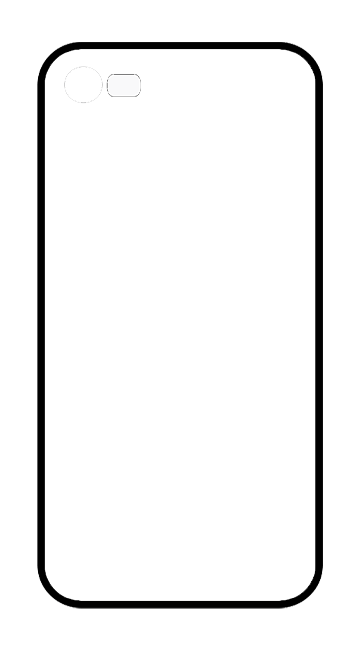
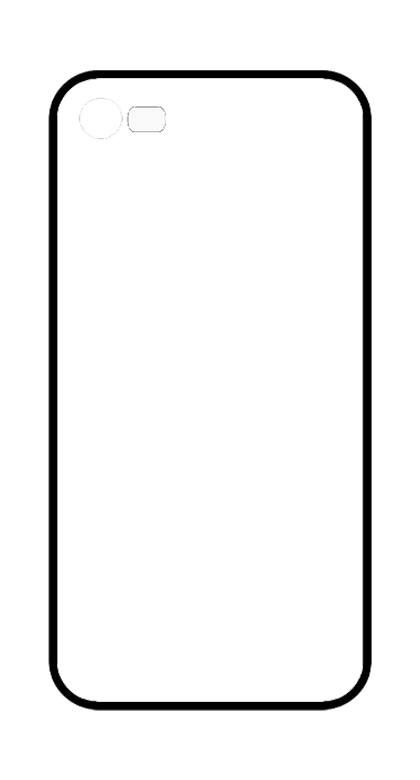
canvas fix

Changed region(s): [[0.0917, 0.0615, 0.9167, 0.9538]]

diff --git a/app/static/js/canvas.js b/app/static/js/canvas.js
@@ -1,18 +1,27 @@
 // static/js/canvas.js
 
+
+
 export const BASE_W = 420;
 export const BASE_H = 780;
 
+/**
+ * Инициализирует и возвращает экземпляр Fabric.js Canvas.
+ * @returns {{canvas: fabric.Canvas, defaultText: fabric.Text}}
+ */
 export function createCanvas() {
-  const canvas = new fabric.Canvas('phone-canvas', { preserveObjectStacking: true });
-
-  // Сразу базовый размер (важно для расчётов)
-  canvas.setWidth(BASE_W);
-  canvas.setHeight(BASE_H);
+  // Важно: Инициализируем canvas по ID, но не устанавливаем его окончательные размеры.
+  // Размеры будут установлены функцией setupResponsiveCanvas.
+  const canvas = new fabric.Canvas('phone-canvas', {
+    preserveObjectStacking: true,
+    // Устанавливаем базовые размеры, которые будут умножаться на масштаб
+    width: BASE_W,
+    height: BASE_H,
+  });
 
   const defaultText = new fabric.Text('Alege modelul telefonului', {
-    left: canvas.width / 2,
-    top: canvas.height / 2,
+    left: BASE_W / 2, // Используем базовый размер для центра
+    top: BASE_H / 2,
     originX: 'center',
     originY: 'center',
     fontSize: 24,
@@ -26,6 +35,9 @@ export function createCanvas() {
   return { canvas, defaultText };
 }
 
+/**
+ * Добавляет объект на канвас с анимацией плавного появления.
+ */
 function addWithAnimation(canvas, obj) {
   obj.set({ opacity: 0 });
   canvas.add(obj);
@@ -36,10 +48,14 @@ function addWithAnimation(canvas, obj) {
   canvas.setActiveObject(obj);
 }
 
+/**
+ * Добавляет изображение на канвас, масштабируя его под размеры.
+ */
 export function addImageToCanvas(canvas, dataURL) {
   fabric.Image.fromURL(
     dataURL,
     (img) => {
+      // Масштабируем изображение, чтобы оно поместилось в 85% канваса
       const scale = Math.min((canvas.width * 0.85) / img.width, (canvas.height * 0.85) / img.height);
       img.scale(scale);
       img.set({
@@ -54,7 +70,10 @@ export function addImageToCanvas(canvas, dataURL) {
   );
 }
 
-export function setPhoneOverlay({ canvas, state, brand, model }) {
+/**
+ * Устанавливает или удаляет изображение оверлея (макет телефона).
+ */
+export function setPhoneOverlay({ canvas, state, brand, model, STATIC_BASE }) {
   canvas.clear();
 
   if (!brand || !model) {
@@ -71,13 +90,21 @@ export function setPhoneOverlay({ canvas, state, brand, model }) {
   fabric.Image.fromURL(
     path,
     (img) => {
+      // Размеры изображения оверлея
+      const imgWidth = img.width;
+      const imgHeight = img.height;
+
       img.set({
         selectable: false,
         evented: false,
         left: 0,
         top: 0,
-        scaleX: canvas.width / img.width,
-        scaleY: canvas.height / img.height,
+        // Масштабируем оверлей до текущих размеров канваса
+        scaleX: canvas.width / imgWidth,
+        scaleY: canvas.height / imgHeight,
+        // Сохраняем оригинальные размеры оверлея для пересчёта при ресайзе
+        originalWidth: imgWidth,
+        originalHeight: imgHeight,
       });
 
       canvas.setOverlayImage(img, canvas.renderAll.bind(canvas));
@@ -87,6 +114,9 @@ export function setPhoneOverlay({ canvas, state, brand, model }) {
   );
 }
 
+/**
+ * Очищает дизайн (все объекты, кроме дефолтного текста).
+ */
 export function clearDesign({ canvas, state, stylePanelEl }) {
   canvas
     .getObjects()
@@ -105,6 +135,9 @@ export function clearDesign({ canvas, state, stylePanelEl }) {
 
 // ----------- RESPONSIVE (через Fabric, не через CSS) -----------
 
+/**
+ * Пересчитывает масштаб всех объектов на канвасе.
+ */
 function scaleAllObjects(canvas, sx, sy) {
   canvas.getObjects().forEach((obj) => {
     obj.scaleX *= sx;
@@ -115,20 +148,33 @@ function scaleAllObjects(canvas, sx, sy) {
   });
 }
 
-export function setupResponsiveCanvas(canvas, state, { baseW = BASE_W, baseH = BASE_H } = {}) {
+/**
+ * Настраивает адаптивность канваса, привязываясь к ширине контейнера.
+ * * @param {fabric.Canvas} canvas Экземпляр Fabric.js канваса.
+ * @param {object} state Объект состояния (с defaultText и currentOverlay).
+ * @param {HTMLElement} containerEl Элемент, от которого берётся ширина (НОВЫЙ ПАРАМЕТР).
+ * @param {object} options Базовые размеры.
+ */
+export function setupResponsiveCanvas(
+  canvas,
+  state,
+  containerEl, // <--- НОВЫЙ ПАРАМЕТР: Элемент-источник ширины
+  { baseW = BASE_W, baseH = BASE_H } = {}
+) {
   let lastW = canvas.getWidth();
   let lastH = canvas.getHeight();
 
   function resize() {
-    const el = document.getElementById('phone-canvas');
-    if (!el) return;
+    // 1. Проверяем наличие контейнера
+    if (!containerEl) return;
 
-    const container = el.parentElement;
-    if (!container) return;
+    // 2. Определяем целевую ширину по ширине контейнера (clientWidth)
+    const cw = containerEl.clientWidth;
 
-    // контейнер уже с паддингами, поэтому чуть запас
-    const cw = container.clientWidth;
-    const targetW = Math.min(baseW, Math.floor(cw - 2));
+    // Новая ширина - это минимум из базовой ширины или ширины контейнера
+    const targetW = Math.min(baseW, cw);
+
+    // Новая высота, сохраняющая пропорции
     const targetH = Math.round(targetW * (baseH / baseW));
 
     if (targetW <= 0 || targetH <= 0) return;
@@ -142,18 +188,23 @@ export function setupResponsiveCanvas(canvas, state, { baseW = BASE_W, baseH = B
 
     scaleAllObjects(canvas, sx, sy);
 
-    // центр дефолтного текста (если он есть)
+    // Центр дефолтного текста (если он есть)
     if (state.defaultText) {
       state.defaultText.set({ left: canvas.width / 2, top: canvas.height / 2 });
     }
 
-    // рескейл оверлея
+    // Рескейл оверлея
     if (state.currentOverlay) {
+      // Используем оригинальные размеры оверлея для точного масштабирования
+      const originalW = state.currentOverlay.originalWidth || baseW;
+      const originalH = state.currentOverlay.originalHeight || baseH;
+
       state.currentOverlay.set({
         left: 0,
         top: 0,
-        scaleX: canvas.width / state.currentOverlay.width,
-        scaleY: canvas.height / state.currentOverlay.height,
+        // Пересчитываем scaleX/Y относительно оригинальных размеров оверлея и НОВОЙ ширины канваса
+        scaleX: canvas.width / originalW,
+        scaleY: canvas.height / originalH,
       });
       canvas.setOverlayImage(state.currentOverlay, canvas.renderAll.bind(canvas));
     }
@@ -171,15 +222,24 @@ export function setupResponsiveCanvas(canvas, state, { baseW = BASE_W, baseH = B
 
 // ----------- EXPORT (всегда 420×780) -----------
 
+/**
+ * Экспортирует изображение канваса в PNG с заданным разрешением (по умолчанию 420x780).
+ */
 export async function exportCanvasPng(canvas, state, { outWidth = BASE_W } = {}) {
   const prevOverlay = state.currentOverlay;
 
+  // 1. Временно убираем оверлей, чтобы экспортировать только дизайн
   if (prevOverlay) canvas.setOverlayImage(null, canvas.renderAll.bind(canvas));
+
+  // 2. Ждём рендера
   await new Promise((r) => setTimeout(r, 80));
 
+  // 3. Экспортируем с нужным множителем (всегда до BASE_W)
   const multiplier = outWidth / canvas.getWidth();
   const dataURL = canvas.toDataURL({ format: 'png', multiplier });
 
+  // 4. Возвращаем оверлей обратно
   if (prevOverlay) canvas.setOverlayImage(prevOverlay, canvas.renderAll.bind(canvas));
+
   return dataURL;
 }

diff --git a/app/static/js/init.js b/app/static/js/init.js
@@ -35,6 +35,9 @@ export function init() {
     submitOrderBtn: document.getElementById('submit-order-btn'),
     submitText: document.getElementById('submit-text'),
     loadingText: document.getElementById('loading-text'),
+
+    // 🔥 НОВОЕ: Элемент-источник ширины, который мы добавили в HTML
+    canvasContainerSource: document.getElementById('canvas-container-source'),
   };
 
   const { canvas, defaultText } = createCanvas();
@@ -46,8 +49,14 @@ export function init() {
     defaultText,
   };
 
-  // 🔥 главное: адаптивный Fabric-canvas без CSS-скейла
-  setupResponsiveCanvas(canvas, state);
+  // 🔥 ИЗМЕНЕНИЕ: Передаём canvasContainerSource в функцию
+  if (DOM.canvasContainerSource) {
+      setupResponsiveCanvas(canvas, state, DOM.canvasContainerSource);
+  } else {
+      console.error('Контейнер #canvas-container-source не найден. Адаптивность не работает.');
+      setupResponsiveCanvas(canvas, state); // Запасной вариант, если не найдено
+  }
+
 
   // -------- toast --------
   function showToast(msg, type = 'success') {
@@ -78,7 +87,20 @@ export function init() {
   });
 
   DOM.modelSelect.addEventListener('change', () => {
-    setPhoneOverlay({ canvas, state, brand: DOM.brandSelect.value, model: DOM.modelSelect.value });
+    // 🔥 ВАЖНО: STATIC_BASE не определен в init.js, он определен в HTML.
+    // Предполагая, что ты его импортируешь или передашь.
+    // Для рабочего кода нужно либо импортировать STATIC_BASE, либо
+    // передать его из main.js, где он доступен глобально.
+    // Пока что используем глобальный объект, как он объявлен в HTML.
+    const STATIC_BASE_GLOBAL = window.STATIC_BASE || '/static/';
+
+    setPhoneOverlay({
+      canvas,
+      state,
+      brand: DOM.brandSelect.value,
+      model: DOM.modelSelect.value,
+      STATIC_BASE: STATIC_BASE_GLOBAL // <-- Передача STATIC_BASE
+    });
   });
 
   // -------- загрузка фото + превью --------

diff --git a/app/templates/index.html b/app/templates/index.html
@@ -131,14 +131,17 @@
       <!-- Центральный canvas -->
       <section class="flex-1 flex flex-col items-center gap-6">
 
-          <div class="glass neumorphic rounded-3xl p-4 sm:p-8 md:p-10 shadow-2xl max-w-full overflow-hidden">
-            <canvas
-              id="phone-canvas"
-              width="360"
-              height="670"
-              class="rounded-3xl shadow-2xl border border-gray-200 block mx-auto"
-            ></canvas>
-          </div>
+            <div class="glass neumorphic rounded-3xl p-4 sm:p-8 md:p-10 shadow-2xl max-w-full overflow-hidden">
+
+              <div id="canvas-container-source" class="w-full h-full flex justify-center items-center">
+                <canvas
+                  id="phone-canvas"
+                  width="360"
+                  height="670"
+                  class="rounded-3xl shadow-2xl border border-gray-200 block"
+                  style="max-width: 100%; height: auto;" ></canvas>
+              </div>
+            </div>
 
         <div class="flex gap-6 w-full max-w-lg">
           <button
